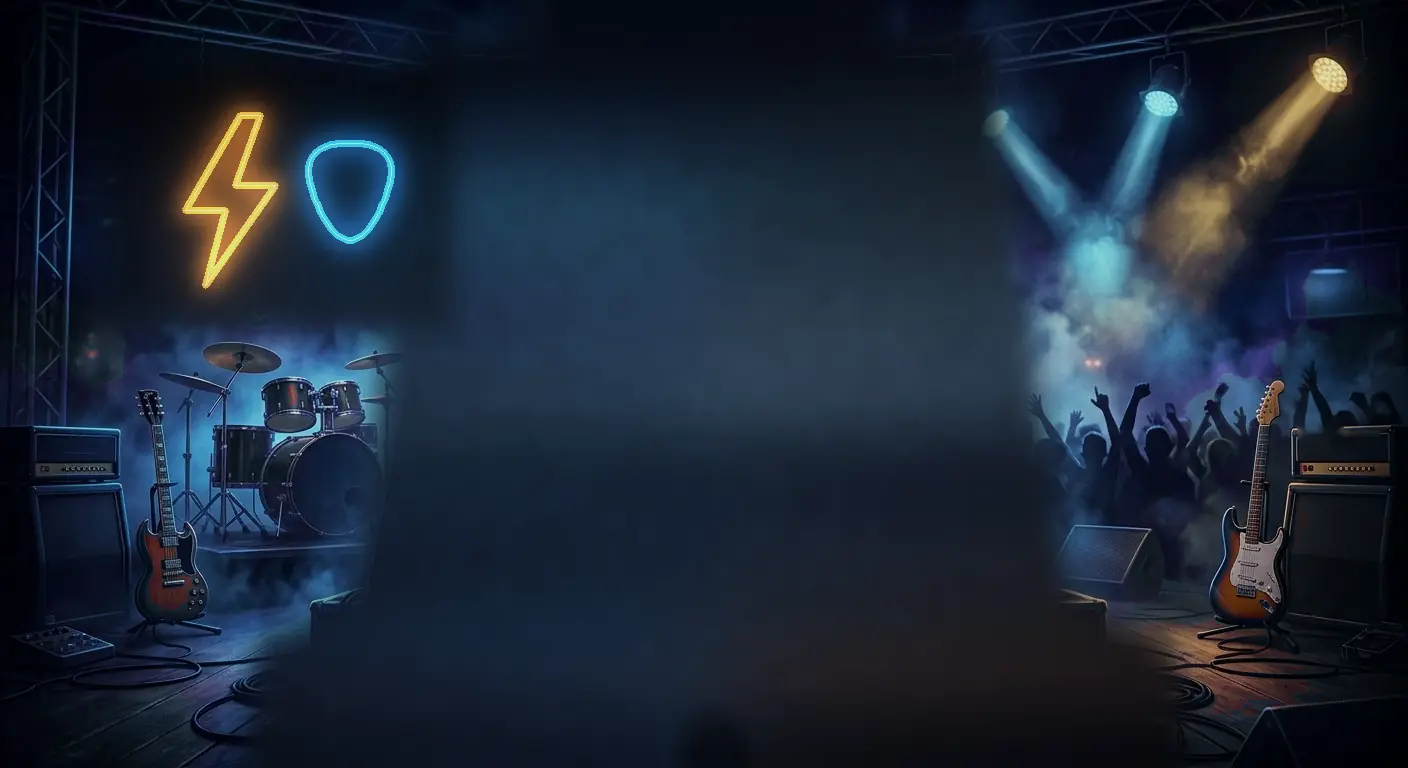
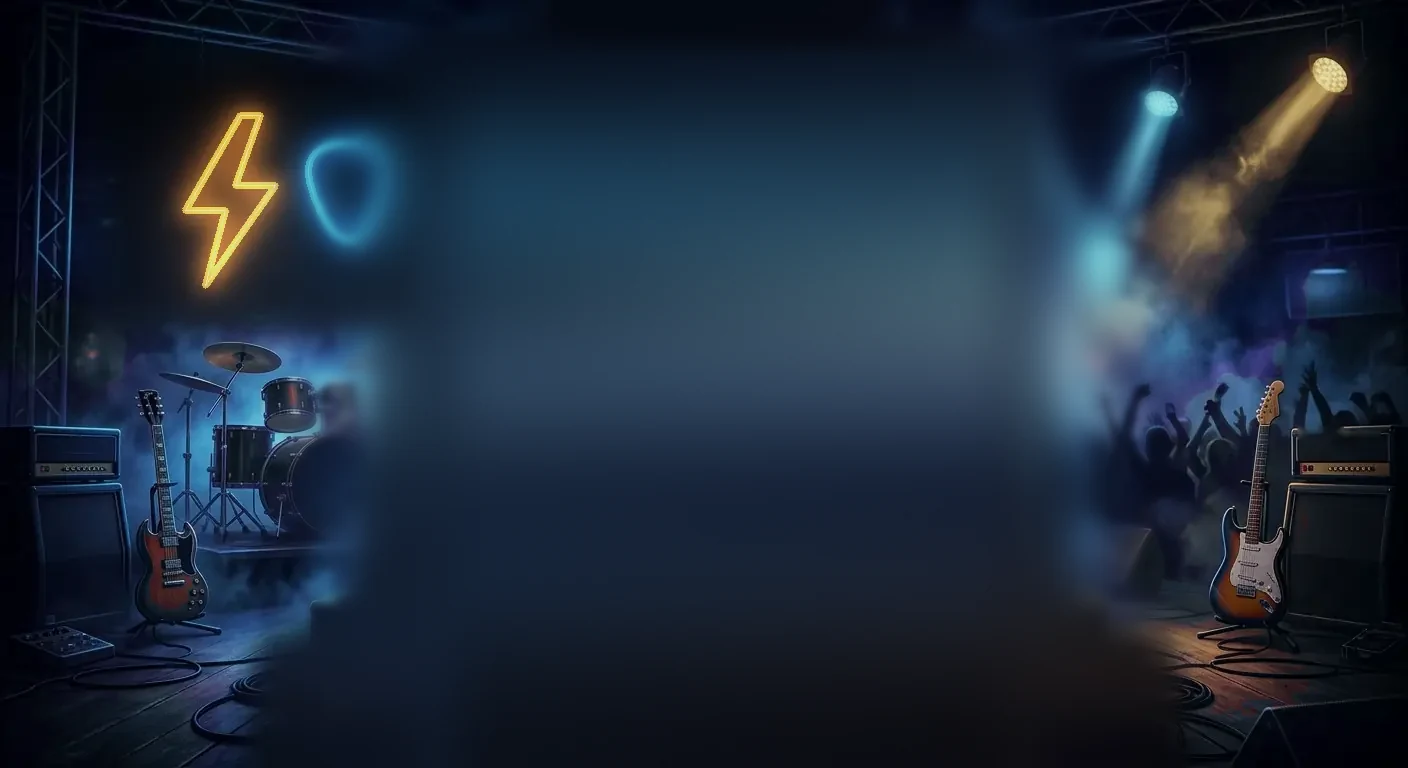
fix(ui): soft stage centre on wide screens, no cut chip in the results feed
The dark column behind the machine now melts into the stage instead of
ending in hard edges. The results feed shows only whole chips; the
centred row used to overflow and leave a sliver on the left.

diff --git a/src/styles/global.css b/src/styles/global.css
@@ -2049,3 +2049,13 @@ button:disabled {
 .drop-btn__hint {
   display: none !important;
 }
+
+/* Only whole results: chips that don't fit wrap onto a hidden second line instead of being
+   cut in half at the edges (the centred row overflowed and showed a sliver on the left). */
+.feed {
+  flex-wrap: wrap;
+  row-gap: 0;
+  overflow: hidden;
+  mask-image: none;
+  -webkit-mask-image: none;
+}
